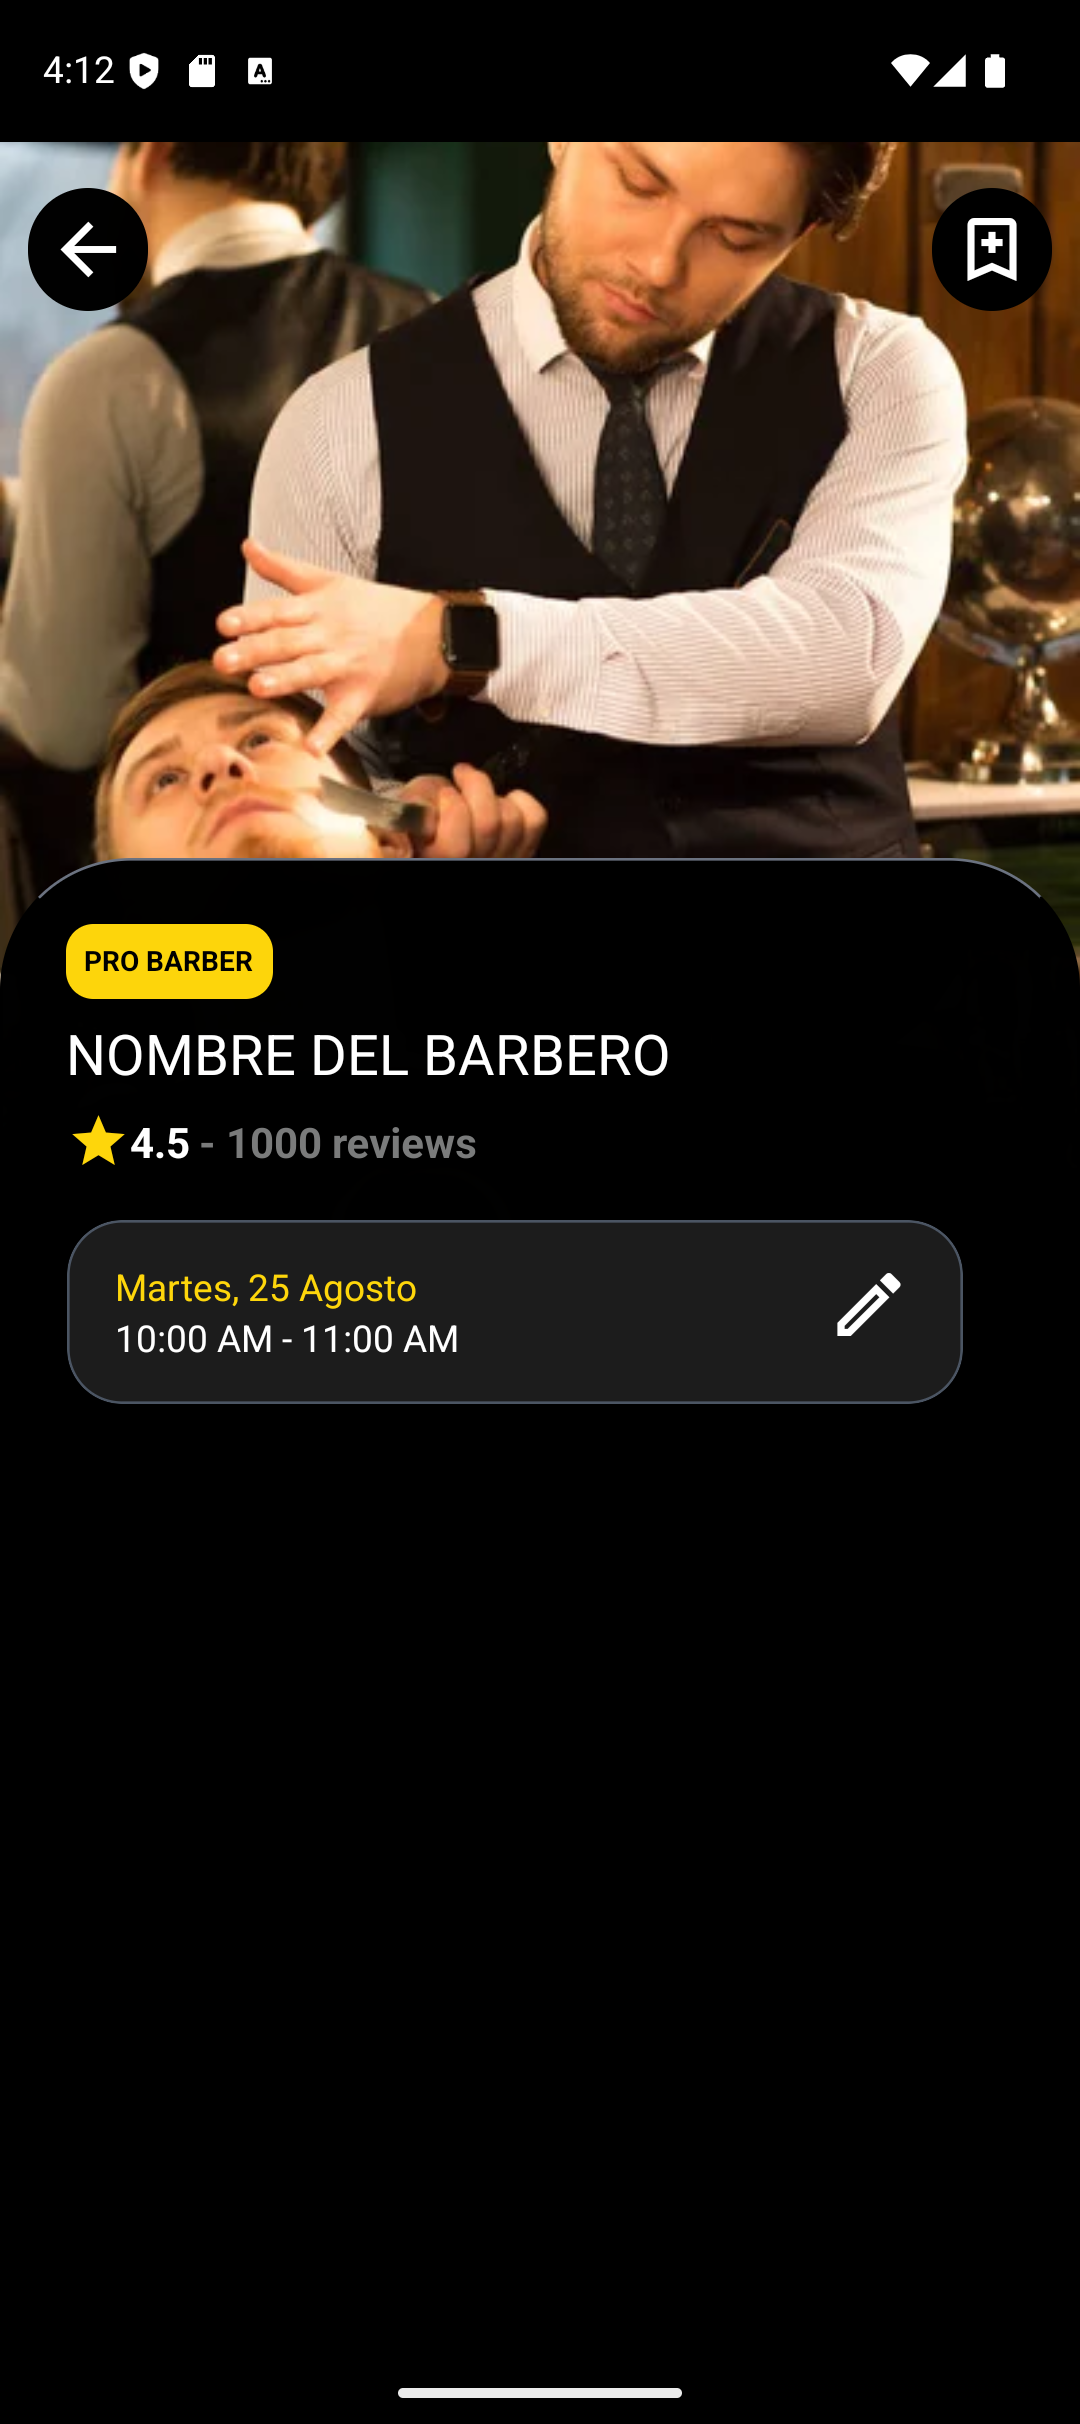
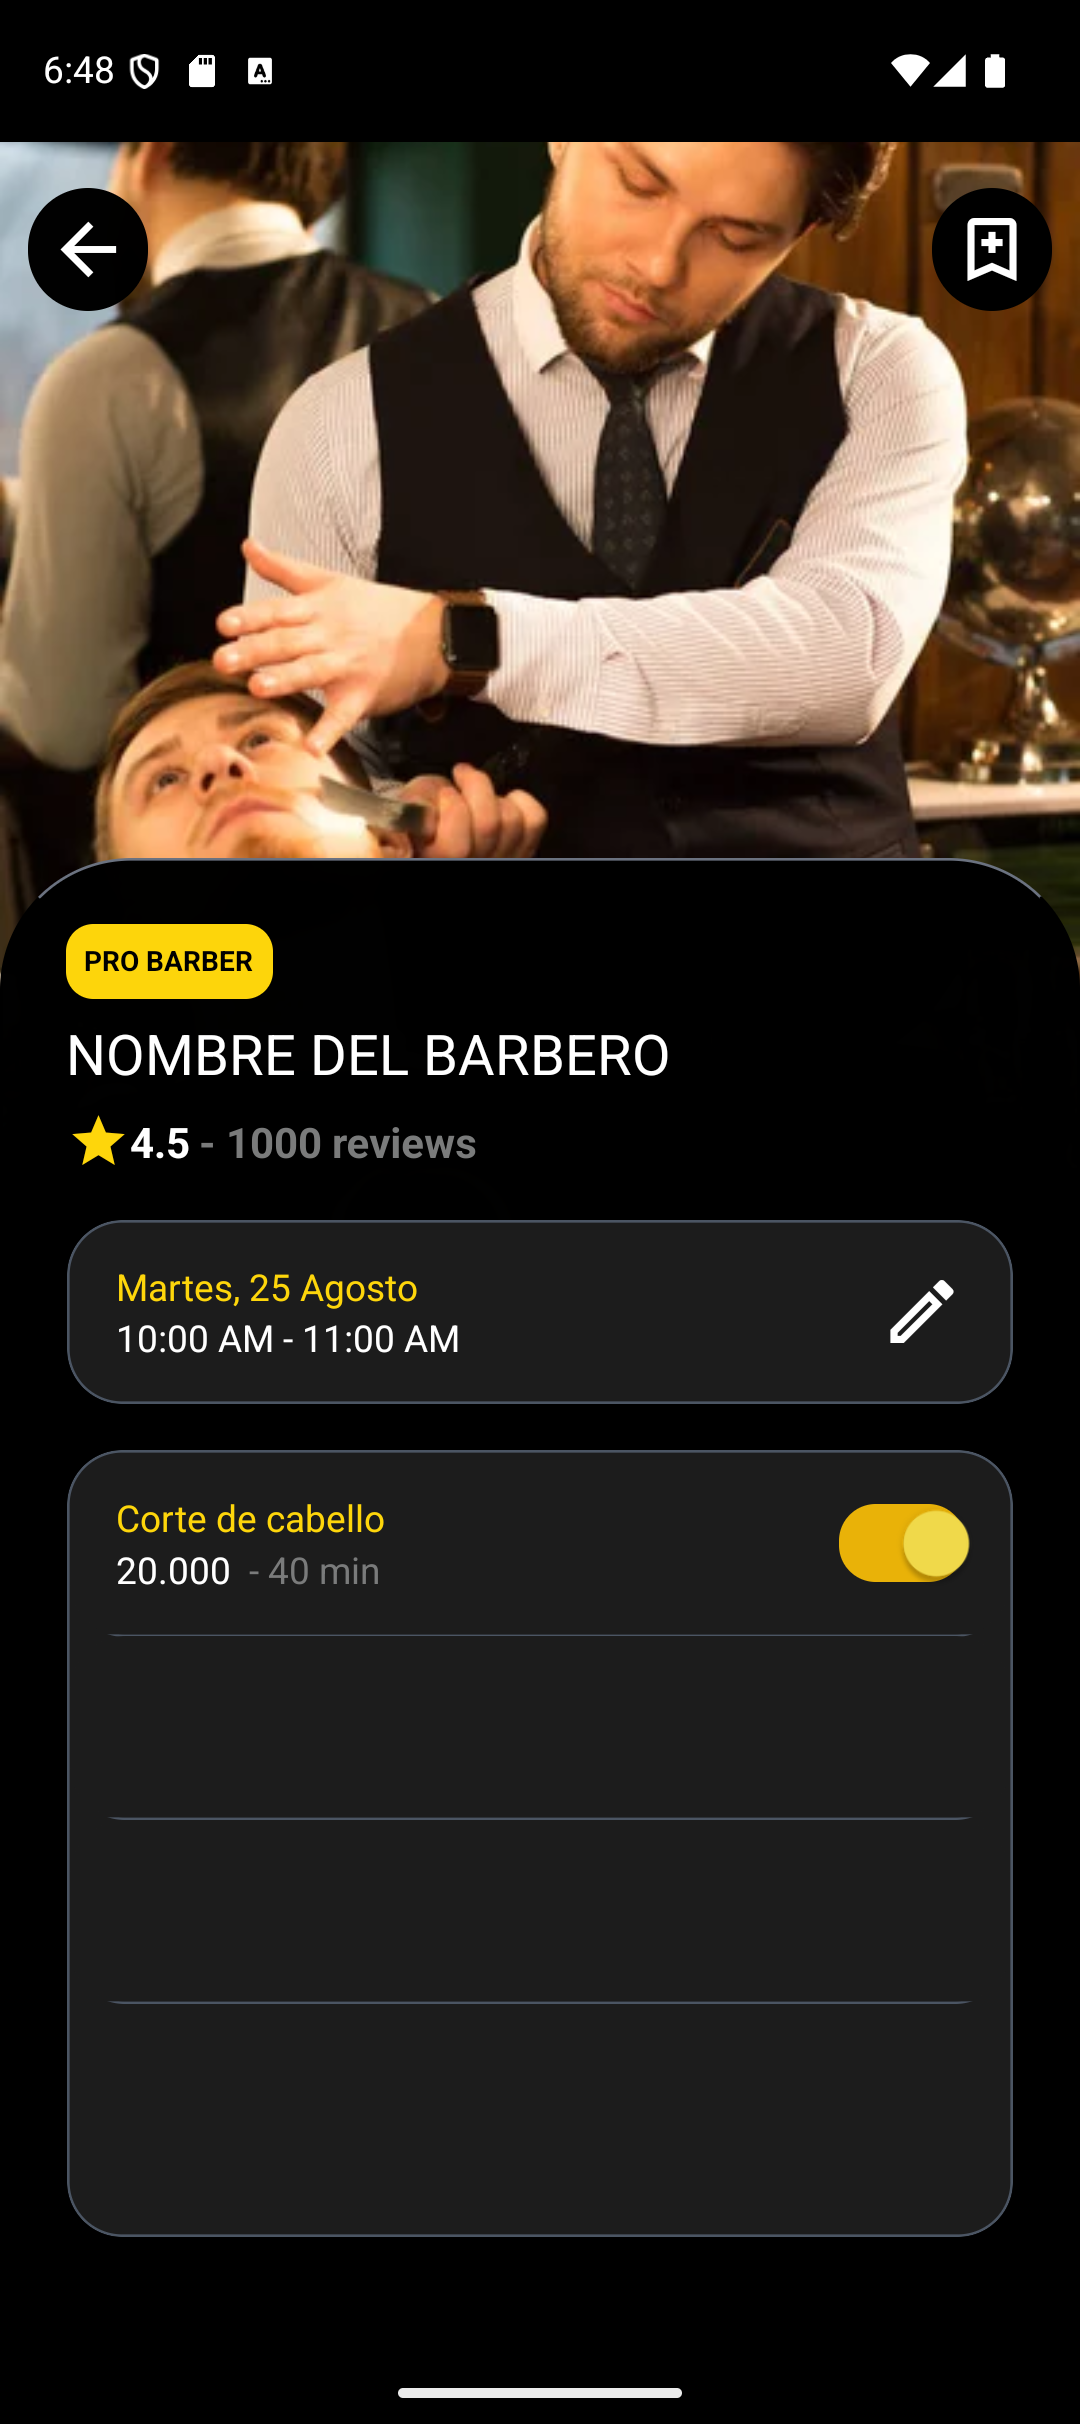
booking options

diff --git a/app/booking.js b/app/booking.js
@@ -1,20 +1,26 @@
-import {View, Text, Image, Pressable} from "react-native";
+import {View, Text, Image, Pressable, Switch} from "react-native";
+import React, {useState} from 'react';
 import MaterialCommunityIcons from '@expo/vector-icons/MaterialCommunityIcons';
 import {Gray_Box} from "../components/Gray_Box";
 import {Link} from "expo-router";
 
 export default function Booking() {
+    const [isEnabled, setIsEnabled] = useState(false);
+    const toggleSwitch = () => setIsEnabled(previousState => !previousState);
     return (
         <View className={"flex-1"}>
             <Image source={require("../assets/Images/booking.png")} className={"w-full h-3/6"}/>
+
             <Link asChild href={"./menu"}>
                 <Pressable className={"absolute top-5 left-3 bg-black p-2 rounded-full active:bg-gray-700"}>
                     <MaterialCommunityIcons name="arrow-left" size={32} color="white"/>
                 </Pressable>
             </Link>
+
             <Pressable className={"absolute top-5 right-3 bg-black p-2 rounded-full active:bg-gray-700"}>
                 <MaterialCommunityIcons name="bookmark-plus-outline" size={32} color="white"/>
             </Pressable>
+
             <View className={"bg-black border border-t-gray-500 rounded-t-[50px] flex-1 -mt-[150px] w-full"}>
                 <Text className={"bg-[#fed60b] rounded-xl font-bold self-start p-2 ml-7 mt-7 text-xs"}>
                     PRO BARBER
@@ -31,18 +37,43 @@ export default function Booking() {
                         - 1000 reviews
                     </Text>
                 </View>
-                <Gray_Box className={"ml-7 w-5/6 justify-center"}>
-                    <View className={"flex-row"}>
-                        <View className={" pl-5 pr-40 self-start"}>
-                            <Text className={"text-[#fed60b]"}>Martes, 25 Agosto</Text>
-                            <Text className={"text-white"}>10:00 AM - 11:00 AM</Text>
-                        </View>
-                        <MaterialCommunityIcons name="pencil-outline" size={32} color="white"/>
+
+                <Gray_Box className={"mx-7 flex-row justify-between items-center"}>
+                    <View className={"ml-5"}>
+                        <Text className={"text-barber_yellow"}>Martes, 25 Agosto</Text>
+                        <Text className={"text-white"}>10:00 AM - 11:00 AM</Text>
                     </View>
+                    <MaterialCommunityIcons className={"mr-5"} name="pencil-outline" size={32} color="white"/>
                 </Gray_Box>
-                <Text>
-                    Hola
-                </Text>
+
+                <Gray_Box className={"mx-7 h-[300px]"}>
+                    <Gray_Box border={false} className={"mt-0 border-b border-gray-600 flex-row justify-between"}>
+                        <View className={"ml-5 h-full justify-center w-32"}>
+                            <Text className={"text-barber_yellow"}>Corte de cabello </Text>
+                            <View className={"flex-row"}>
+                                <Text className={"pr-1 text-white"}>20.000 </Text>
+                                <Text className={"text-barber_gray"}>- 40 min</Text>
+                            </View>
+                        </View>
+                        <View className={"mr-5 justify-center"}>
+                            <View
+                                className={` ${isEnabled ? "bg-yellow-500" : "bg-gray-700"} justify-center rounded-2xl h-[30px]`}>
+                                <Switch
+                                    trackColor={{false: 'transparent', true: 'transparent'}}
+                                    thumbColor={isEnabled ? '#f5dd4b' : '#f4f3f4'}
+                                    ios_backgroundColor="#3e3e3e"
+                                    onValueChange={toggleSwitch}
+                                    value={isEnabled}
+                                    className={"scale-125"}
+                                />
+                            </View>
+                        </View>
+                    </Gray_Box>
+                    <Gray_Box border={false} className={"mt-0 border-b border-gray-600"}>
+                    </Gray_Box>
+                    <Gray_Box border={false} className={"mt-0 border-b border-gray-600"}>
+                    </Gray_Box>
+                </Gray_Box>
             </View>
         </View>
     );

diff --git a/components/Gray_Box.jsx b/components/Gray_Box.jsx
@@ -1,8 +1,10 @@
 import {View} from "react-native";
 
-export const Gray_Box = ({className = "", children}) => (
+export const Gray_Box = ({className = "", children, border = true}) => (
     <View
-        className={`border border-gray-600 bg-[#1c1c1c] h-20 rounded-3xl mt-5 ${className}`}>
+        className={`bg-[#1c1c1c] h-20 rounded-3xl mt-5 
+        ${border ? "border border-gray-600" : ""} 
+        ${className}`}>
         {children}
     </View>
 )
